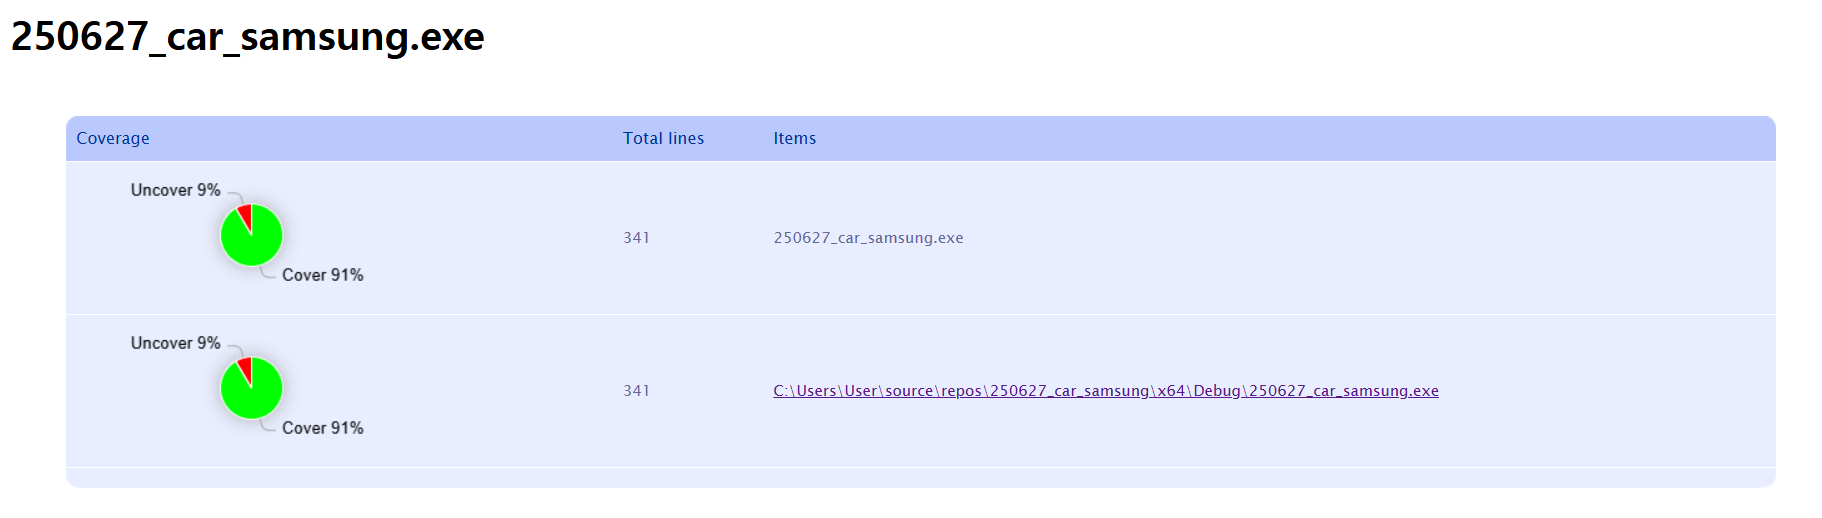
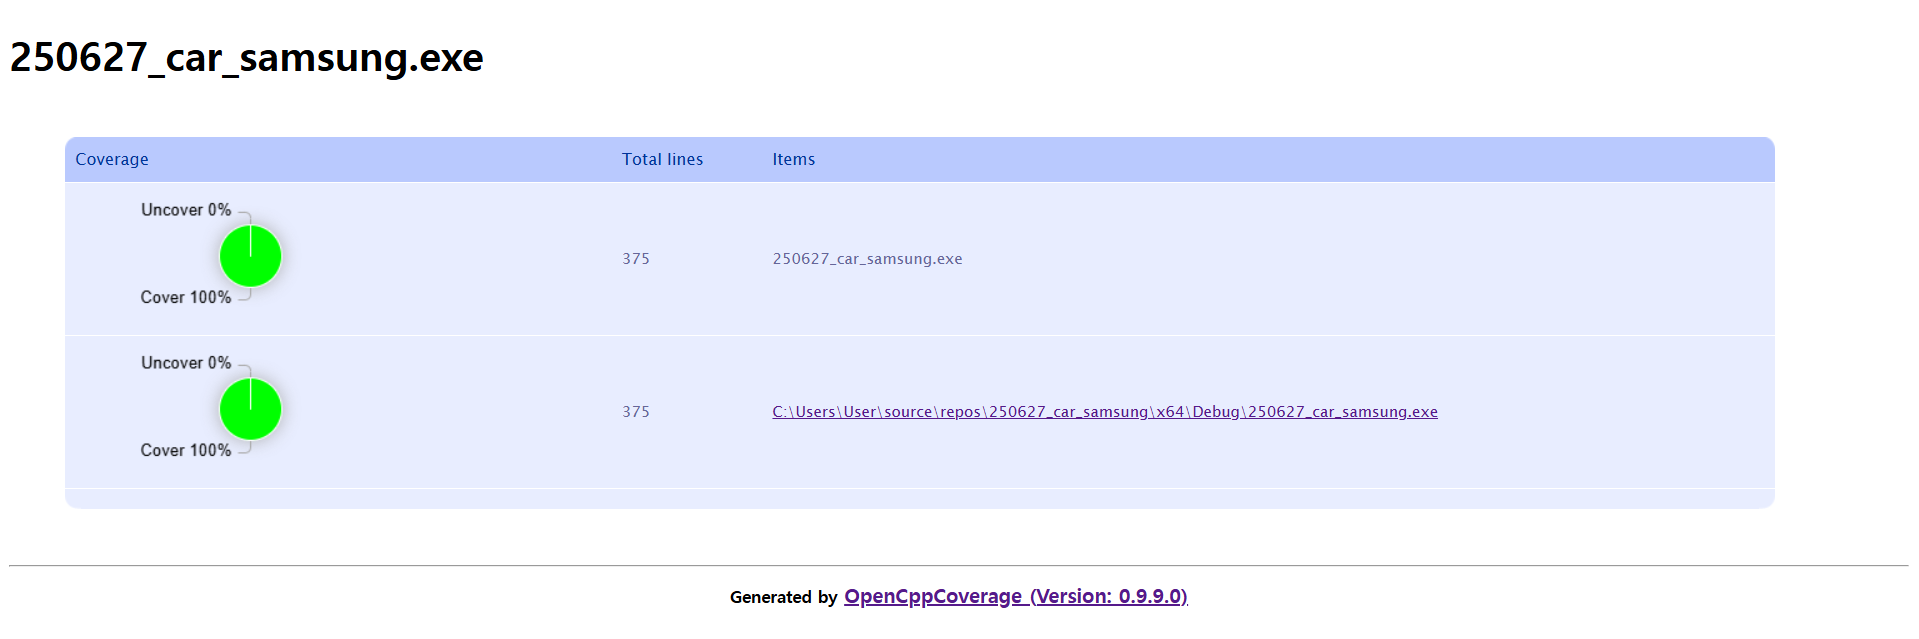
[CRA] Update Test Code & Coverage

diff --git a/mission2/main_test.cpp b/mission2/main_test.cpp
@@ -171,12 +171,42 @@ TEST(Group, TC24) {
 
 TEST(Group, TC25) {
 	Manufacture t_manufacture;
+	int ret, i, j, k, t;
+
+	for (i = 1; i < END_CType; i++) {
+		for (j = 1; j < END_Engine; j++) {
+			for (k = 1; k < END_breakSystem; k++) {
+				for (t = 1; t < END_SteeringSystem; t++) {
+					ret = t_manufacture.selectManufacture(CarType_Q, i);
+					EXPECT_EQ(Engine_Q, ret);
+
+					ret = t_manufacture.selectManufacture(Engine_Q, j);
+					EXPECT_EQ(brakeSystem_Q, ret);
+
+					ret = t_manufacture.selectManufacture(brakeSystem_Q, k);
+					EXPECT_EQ(SteeringSystem_Q, ret);
+
+					ret = t_manufacture.selectManufacture(SteeringSystem_Q, t);
+					EXPECT_EQ(Run_Test, ret);
+
+					ret = t_manufacture.selectManufacture(Run_Test, 1);
+					ret = t_manufacture.selectManufacture(Run_Test, 2);
+
+					EXPECT_EQ(Run_Test, ret);
+				}
+			}
+		}
+	}
+}
+
+TEST(Group, TC26) {
+	Manufacture t_manufacture;
 	int ret;
 
 	ret = t_manufacture.selectManufacture(CarType_Q, SEDAN);
 	EXPECT_EQ(Engine_Q, ret);
 
-	ret = t_manufacture.selectManufacture(Engine_Q, TOYOTA);
+	ret = t_manufacture.selectManufacture(Engine_Q, END_Engine);
 	EXPECT_EQ(brakeSystem_Q, ret);
 
 	ret = t_manufacture.selectManufacture(brakeSystem_Q, MANDO);
@@ -187,6 +217,51 @@ TEST(Group, TC25) {
 
 	ret = t_manufacture.selectManufacture(Run_Test, 1);
 	ret = t_manufacture.selectManufacture(Run_Test, 2);
+
+	EXPECT_EQ(Run_Test, ret);
+}
+
+TEST(Group, TC27) {
+	Manufacture t_manufacture;
+	int ret;
+
+	ret = t_manufacture.selectManufacture(CarType_Q, SEDAN);
+	EXPECT_EQ(Engine_Q, ret);
+
+	ret = t_manufacture.selectManufacture(Engine_Q, GM);
+	EXPECT_EQ(brakeSystem_Q, ret);
+
+	ret = t_manufacture.selectManufacture(brakeSystem_Q, MANDO);
+	EXPECT_EQ(SteeringSystem_Q, ret);
+
+	ret = t_manufacture.selectManufacture(SteeringSystem_Q, BOSCH_S);
+	EXPECT_EQ(Run_Test, ret);
+
+	ret = t_manufacture.selectManufacture(Run_Test, 1);
+	ret = t_manufacture.selectManufacture(Run_Test, 2);
+
+	EXPECT_EQ(Run_Test, ret);
+}
+
+TEST(Group, TC28) {
+	Manufacture t_manufacture;
+	int ret;
+
+	ret = t_manufacture.selectManufacture(CarType_Q, SEDAN);
+	EXPECT_EQ(Engine_Q, ret);
+
+	ret = t_manufacture.selectManufacture(Engine_Q, GM);
+	EXPECT_EQ(brakeSystem_Q, ret);
+
+	ret = t_manufacture.selectManufacture(brakeSystem_Q, MANDO);
+	EXPECT_EQ(SteeringSystem_Q, ret);
+
+	ret = t_manufacture.selectManufacture(SteeringSystem_Q, BOSCH_S);
+	EXPECT_EQ(Run_Test, ret);
+
+	ret = t_manufacture.selectManufacture(Run_Test, 1);
+	ret = t_manufacture.selectManufacture(Run_Test, 2);
+	ret = t_manufacture.selectManufacture(Run_Test, 3);
 
 	EXPECT_EQ(Run_Test, ret);
 }
